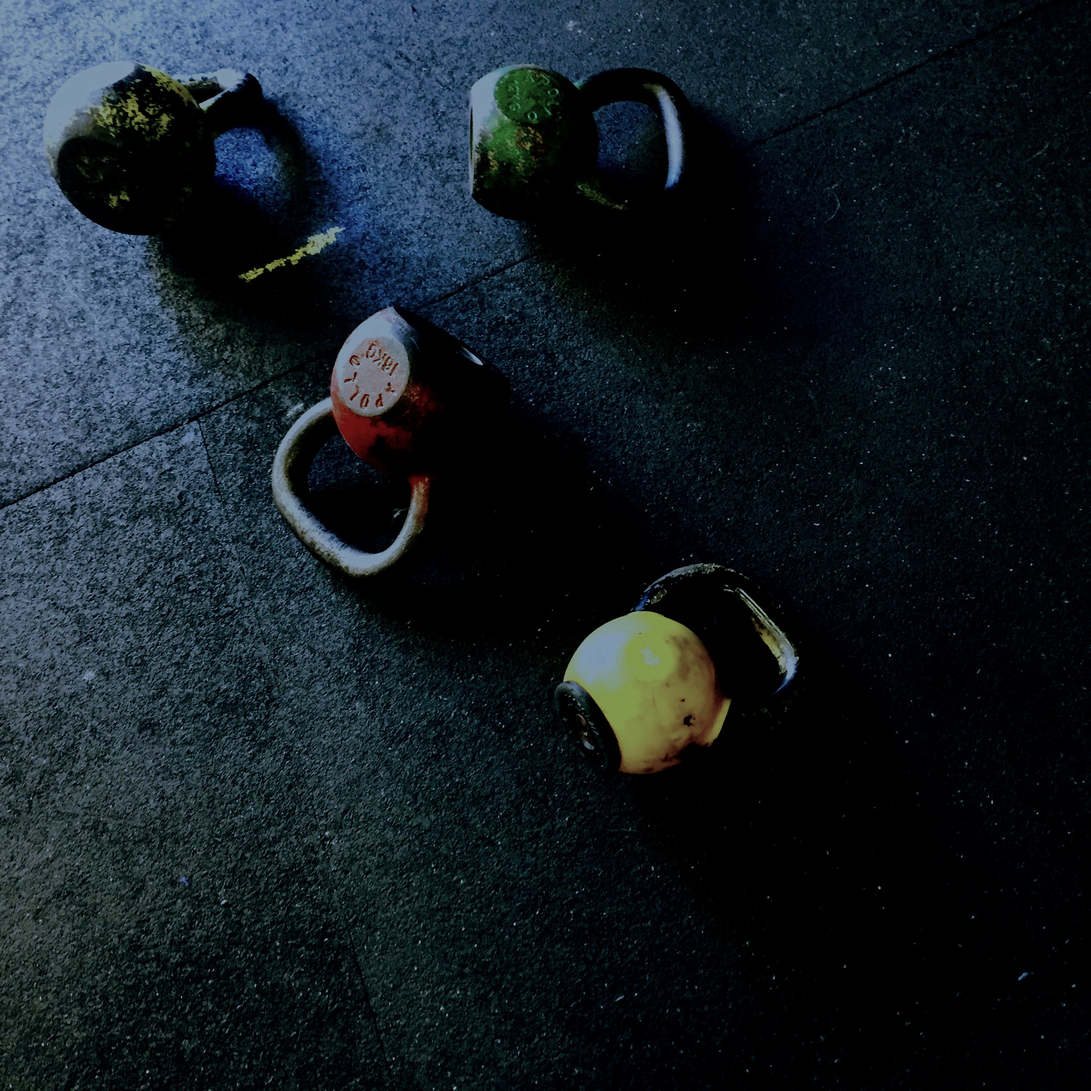
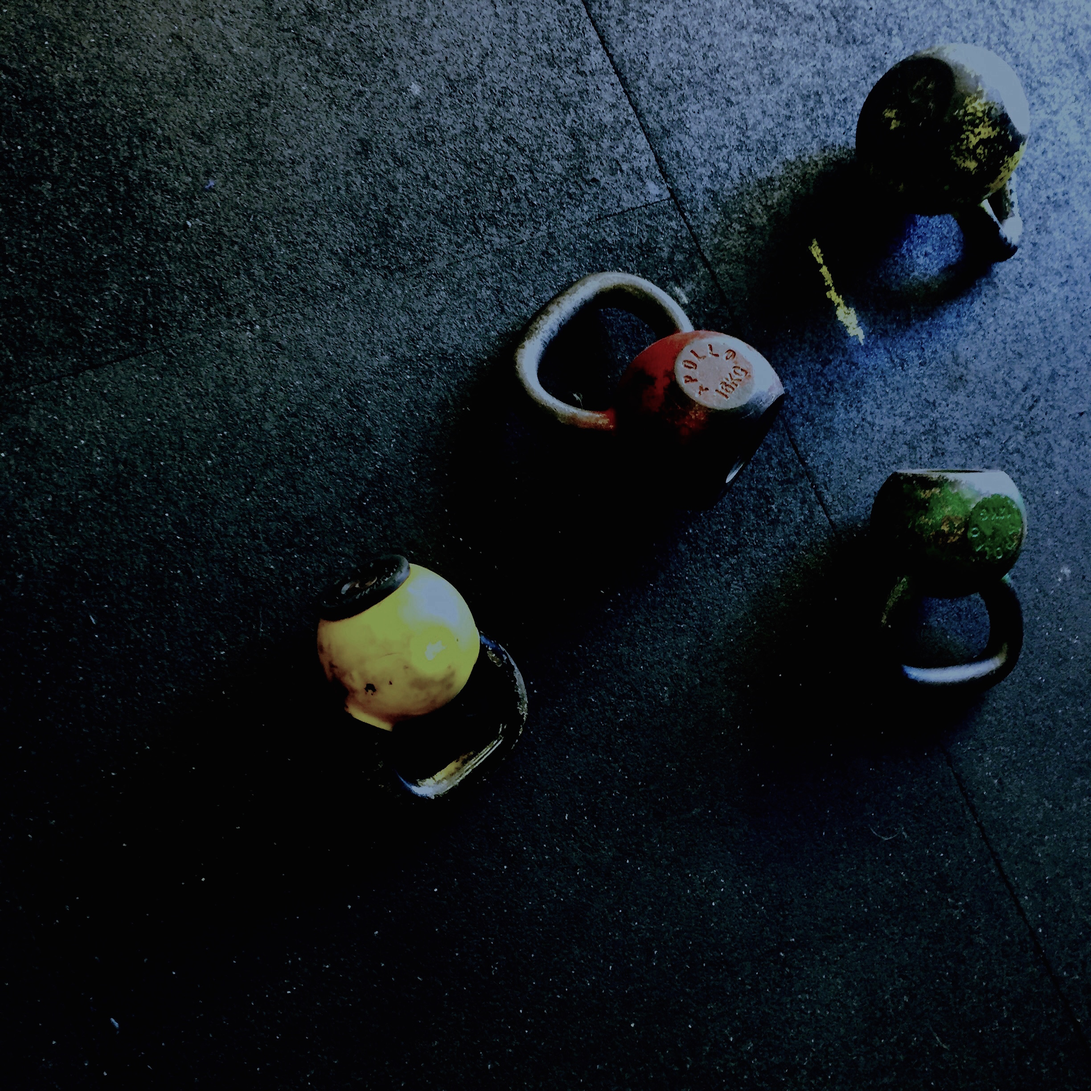
mobile responsive on show

diff --git a/app/assets/stylesheets/gyms.scss b/app/assets/stylesheets/gyms.scss
@@ -12,10 +12,17 @@ td, tr {
 	padding-left: 10px;
 
 }
+.container {
+	margin: auto;
+	max-width: 1000px;
+}
+.headline {
+  padding: 20px 5%;
+}
 
 .kettlebell-background {
-	background-image: url(image_path('kettlebells.jpg'));
- 	background-position: center center;
+	background-image: url(image_path('kettlebells2.jpg'));
+ 	background-position: center top;
  	background-repeat: no-repeat;
  	background-attachment: scroll;
  	background-size: cover;
@@ -27,7 +34,7 @@ td, tr {
 }
 .handstand-background {
 	background-image: url(image_path('handstand.jpg'));
-	background-position: center center;
+	background-position: center top;
  	background-repeat: no-repeat;
  	background-attachment: scroll;
  	background-size: cover;
@@ -45,5 +52,9 @@ td, tr {
   color: #ebebeb;
 }
 .well {
-	background-color: rgba(43,51,59,.3);
+	background-color: rgba(43,51,59,.5);
+}
+
+@media (min-width: 600px) {
+
 }
